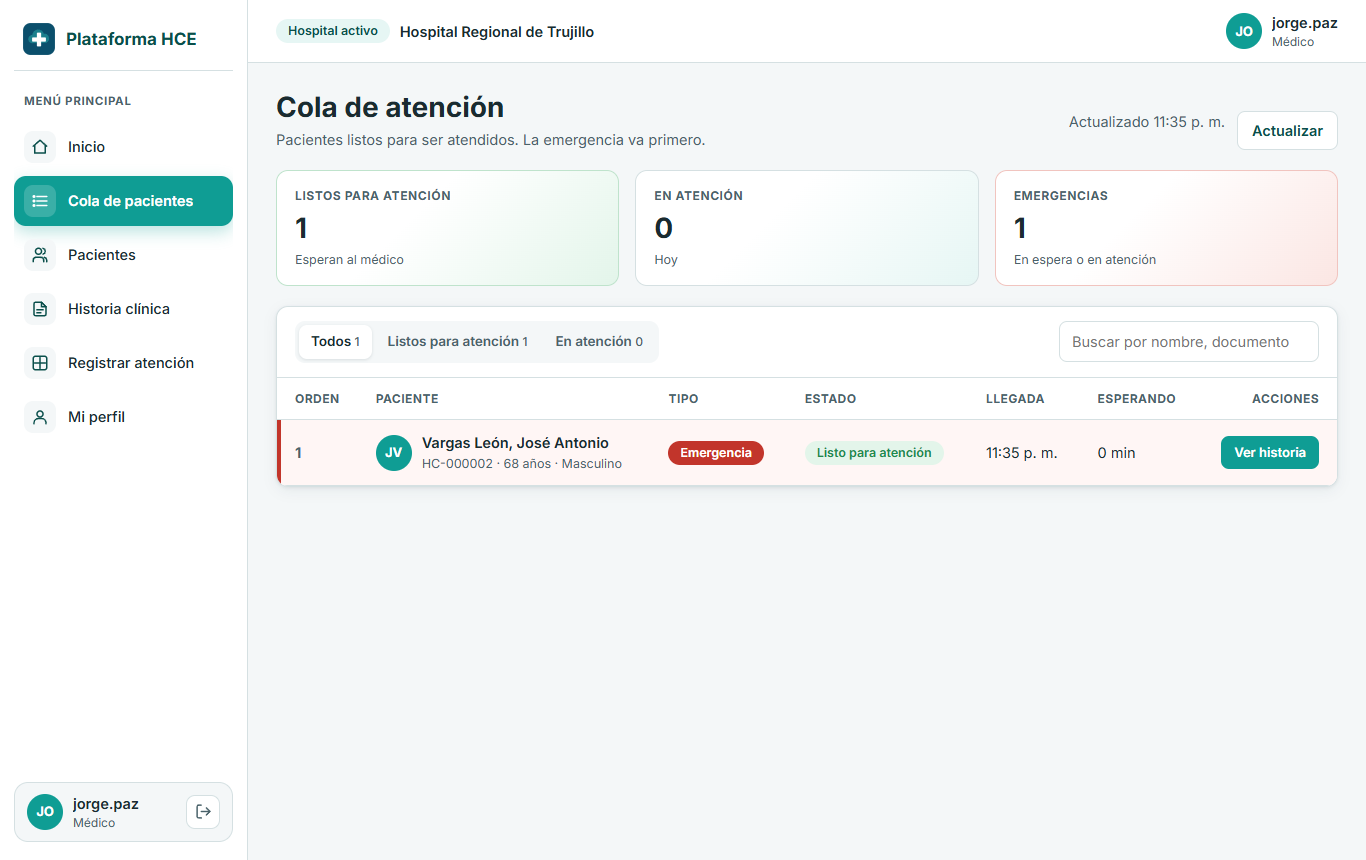
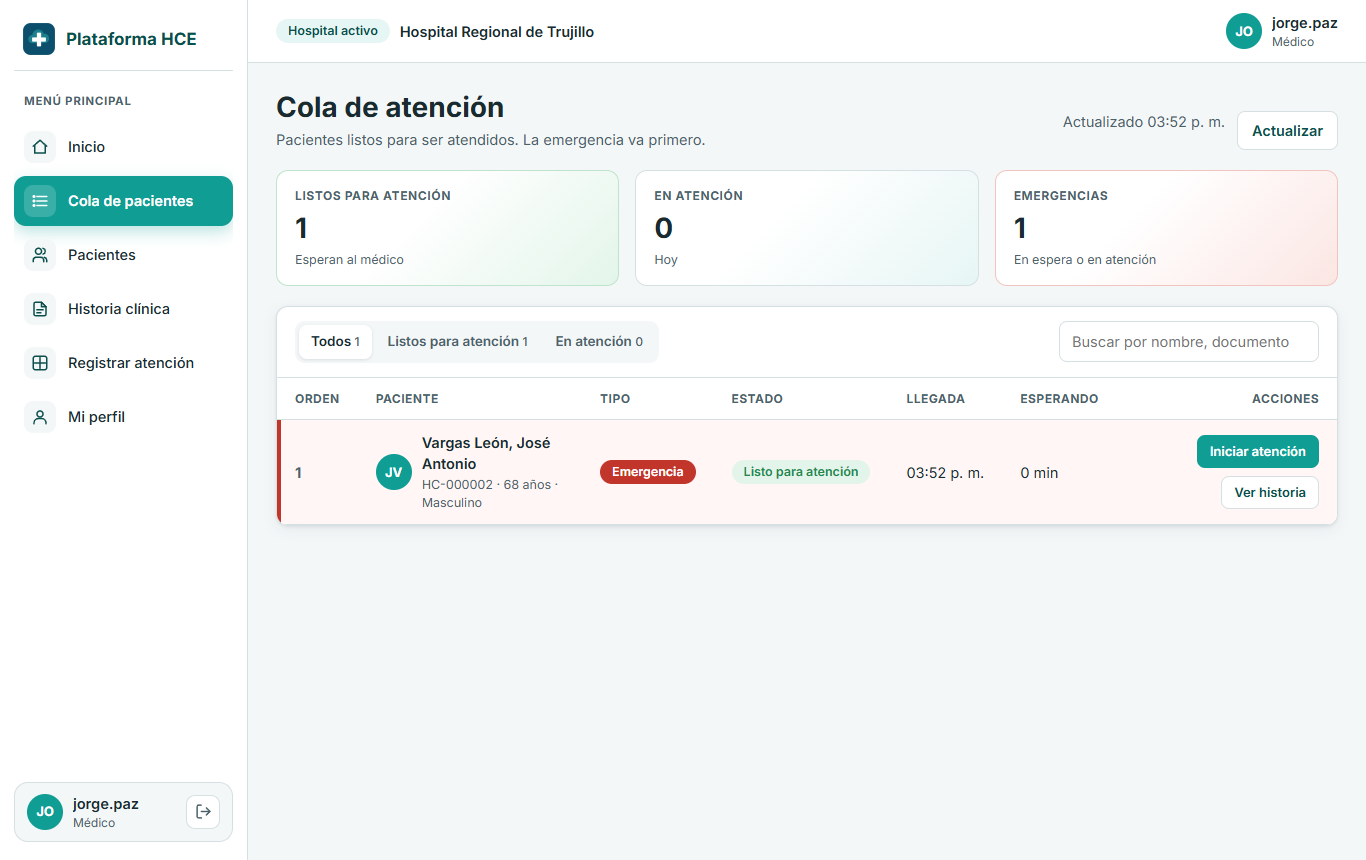
Plan v3 R3b.4 y R3b.5: pantalla de examenes registrada, recorrido Playwright de los pasos 1 a 8, README y script SQL Server actualizados (CU-05, CU-22, CU-23; RN-13, RN-18, RN-03)

diff --git a/src/main/java/pe/edu/ucv/hce/presentacion/ConfigWeb.java b/src/main/java/pe/edu/ucv/hce/presentacion/ConfigWeb.java
@@ -13,7 +13,7 @@ public class ConfigWeb implements WebMvcConfigurer {
 
     private static final String[] PANTALLAS = {
         "inicio", "pacientes", "historia", "atencion", "mi-historial", "consentimiento", "auditoria", "hospitales",
-        "perfil", "login", "cambiar-clave", "usuarios", "cola"
+        "perfil", "login", "cambiar-clave", "usuarios", "cola", "examenes"
     };
 
     @Override

diff --git a/README.md b/README.md
@@ -13,14 +13,18 @@ La aplicación ya **no trae cuentas ni pacientes de demostración**. Al arrancar
 - Las cuentas `admision.a`, `medico.a`, etc. (clave `demo123`) que mencionan las secciones antiguas de este README **solo existen en los tests** (`hce.demo-usuarios=true` en `src/test/resources`).
 - Avance del plan v3: `PROGRESO.md`. Decisiones por revisar: `DECISIONES_PENDIENTES.md`.
 
-## Cómo probar el recorrido (plan v3, pasos 1 a 5 de `docs/recorrido.md`)
+## Cómo probar el recorrido (plan v3, pasos 1 a 8 de `docs/recorrido.md`)
 1. Borra `data/` (con la app cerrada) y arranca: `.\mvnw.cmd spring-boot:run`. Abre `http://localhost:8090`.
 2. **Paso 1:** entra con `admin` / `Temporal2026`, cambia la clave y en **Hospitales** da de alta un hospital con su administrador. Anota la clave temporal de la constancia (se muestra una sola vez).
 3. **Paso 2:** entra con el administrador del hospital, cambia su clave y en **Usuarios** crea a admisión, enfermería, médico (con colegiatura) y apoyo al diagnóstico.
 4. **Paso 3:** entra con admisión y en **Registrar paciente** completa la filiación. Se abre la historia y sale la constancia del portal (usuario = documento).
 5. **Paso 4:** en **Pacientes**, botón **Admitir**: consulta externa o emergencia. **Pacientes del día** muestra la cola completa.
 6. **Paso 5:** entra con enfermería: en **Cola de pacientes** la emergencia va primero. **Tomar paciente** abre la historia con la sección de enfermería: registra signos vitales (un valor imposible se rechaza), antecedentes y alergias, y confirma "listo para atención". El médico lo ve en su cola.
-- Automático: `cd e2e`, `npm install` y `npm run recorrido -- 5` con la app en el puerto 8191 y base nueva (ver `e2e/LEEME.md`). Capturas en `docs/capturas/`.
+7. **Paso 6:** entra con el médico: en **Cola de pacientes**, **Iniciar atención** sobre el paciente listo. Completa motivo, enfermedad actual, anamnesis, funciones biológicas, examen físico y por sistemas; agrega un diagnóstico CIE-10 (ej. `J02.9`), un tratamiento y **Solicitar examen auxiliar**.
+8. **Paso 7:** entra con apoyo al diagnóstico (cambia su clave): en **Exámenes** ve el pedido pendiente y pulsa **Registrar resultado**.
+9. **Paso 8:** el médico abre la atención, ve el resultado y la cierra: la admisión pasa a "atención cerrada" y ya no se edita (solo enmienda).
+- **Restablecer clave (CU-26):** el administrador del hospital lo hace desde **Usuarios**, la plataforma desde **Hospitales** (al administrador) y la admisión desde **Pacientes** (cuenta del portal). La clave temporal se muestra una sola vez.
+- Automático: `cd e2e`, `npm install` y `npm run recorrido -- 8` con la app en el puerto 8191 y base nueva (ver `e2e/LEEME.md`). Capturas en `docs/capturas/`.
 
 ## Cómo probar (Fase 0)
 Requisito: JDK 21 o superior (el código compila a nivel 21). Maven viene incluido (`mvnw`). La primera vez necesita internet para bajar dependencias.

diff --git a/e2e/LEEME.md b/e2e/LEEME.md
@@ -7,7 +7,7 @@ Usan el Chrome instalado en la PC (`playwright-core`, sin descargar navegadores)
 1. Una sola vez: `cd e2e` y `npm install`.
 2. Arranca la aplicación **con una base nueva** (solo existe `admin` / `Temporal2026`). Por ejemplo, en el puerto 8191 y en memoria:
    `.\mvnw.cmd spring-boot:run "-Dspring-boot.run.arguments=--server.port=8191 --spring.datasource.url=jdbc:h2:mem:recorrido"`
-3. En otra terminal: `cd e2e` y `npm run recorrido -- 5` (el número es el último paso a recorrer; sin número recorre todos los que existan).
+3. En otra terminal: `cd e2e` y `npm run recorrido -- 8` (el número es el último paso a recorrer; sin número recorre todos los que existan).
    Otra URL: `set HCE_URL=http://localhost:8090` antes del comando.
 
 ## Qué verifica
@@ -17,5 +17,8 @@ Cada paso imprime `ok:` por cada comprobación. Si una falla, se detiene con el 
 - Paso 3: admisión registra a una paciente con filiación completa; se abre su historia y su cuenta del portal.
 - Paso 4: admisión registra a un segundo paciente y admite a los dos (consulta externa y emergencia).
 - Paso 5: enfermería ve la cola con la emergencia primero, toma al paciente, registra signos vitales (un valor imposible se rechaza), antecedentes y una alergia, y lo deja listo; el médico lo ve en su cola y no ve a quien aún no pasó por enfermería.
+- Paso 6: el médico inicia la atención desde la cola (campos ampliados), agrega diagnóstico y tratamiento y pide un examen; la admisión queda "en atención".
+- Paso 7: apoyo al diagnóstico ve el examen pendiente de su hospital y registra el resultado.
+- Paso 8: el médico ve el resultado, cierra la atención (sin formularios de edición, solo enmienda) y el paciente sale de su cola.
 
-Recorrido completo actual: `npm run recorrido -- 5` (unos 40 segundos). Cada corrida necesita una base nueva.
+Recorrido completo actual: `npm run recorrido -- 8` (unos 70 segundos). Cada corrida necesita una base nueva.

diff --git a/PROGRESO.md b/PROGRESO.md
@@ -31,8 +31,8 @@ Las decisiones tomadas sin respaldo en los documentos están en `DECISIONES_PEND
 - [x] R3b.1 El médico inicia la atención desde la cola (LISTO → EN_ATENCION), atención ampliada (enfermedad actual, funciones biológicas, examen por sistemas) y el cierre de la atención cierra la admisión (RN-13); 5 tests (207 en total). Decisión D-40.
 - [x] R3b.2 Pedido de exámenes (CU-22, RF-25; RN-18): tabla `solicitud_examen`, formulario en la atención abierta, lista en la atención y la historia.
 - [x] R3b.3 Resultados (CU-23, RF-09; RN-18, RN-06): P-12 `/examenes/` para apoyo al diagnóstico, tabla `resultado_examen`, cifras reales en su Inicio; 6 tests (213 en total). Decisión D-41.
-- [ ] R3b.4 Cierre de la atención
-- [ ] R3b.5 Recorrido Playwright pasos 6 a 8 y regenerar `script_sqlserver.sql`
+- [x] R3b.4 Cierre de la atención: cerrarla pasa la admisión a ATENCION_CERRADA y la atención cerrada no se edita (RN-03); quedó cubierto por los tests de R3b.1 y el paso 8 del recorrido.
+- [x] R3b.5 `npm run recorrido -- 8` recorre los pasos 1 a 8 con 28 verificaciones y sin errores de consola; capturas paso6_ a paso8_ en `docs/capturas/`. `docs/script_sqlserver.sql` actualizado (admision, signos_vitales, solicitud_examen y columnas nuevas; sin probar en SQL Server).
 
 ## Resumen al parar (cierre de R2) (checklist completo, 0 ítems bloqueados)
 
